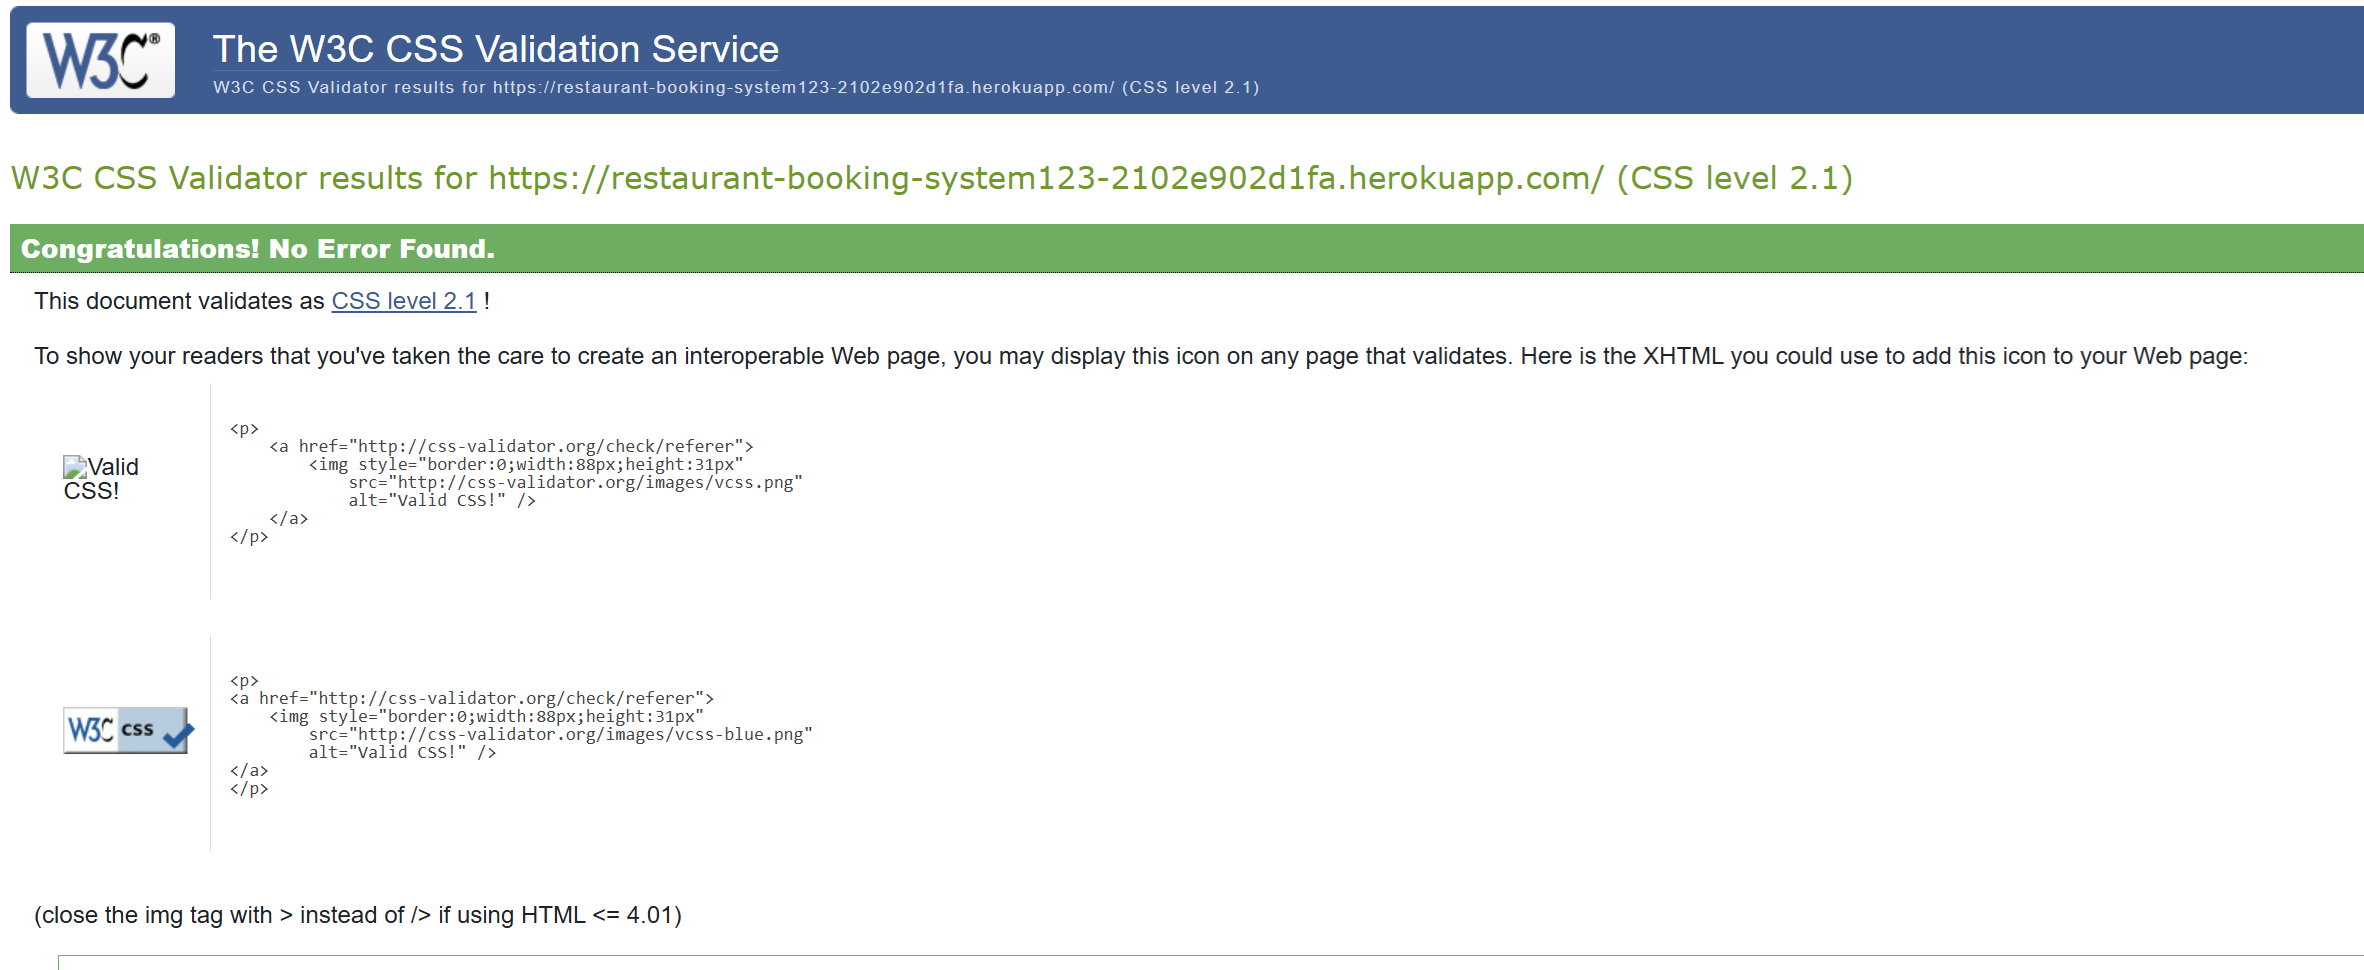
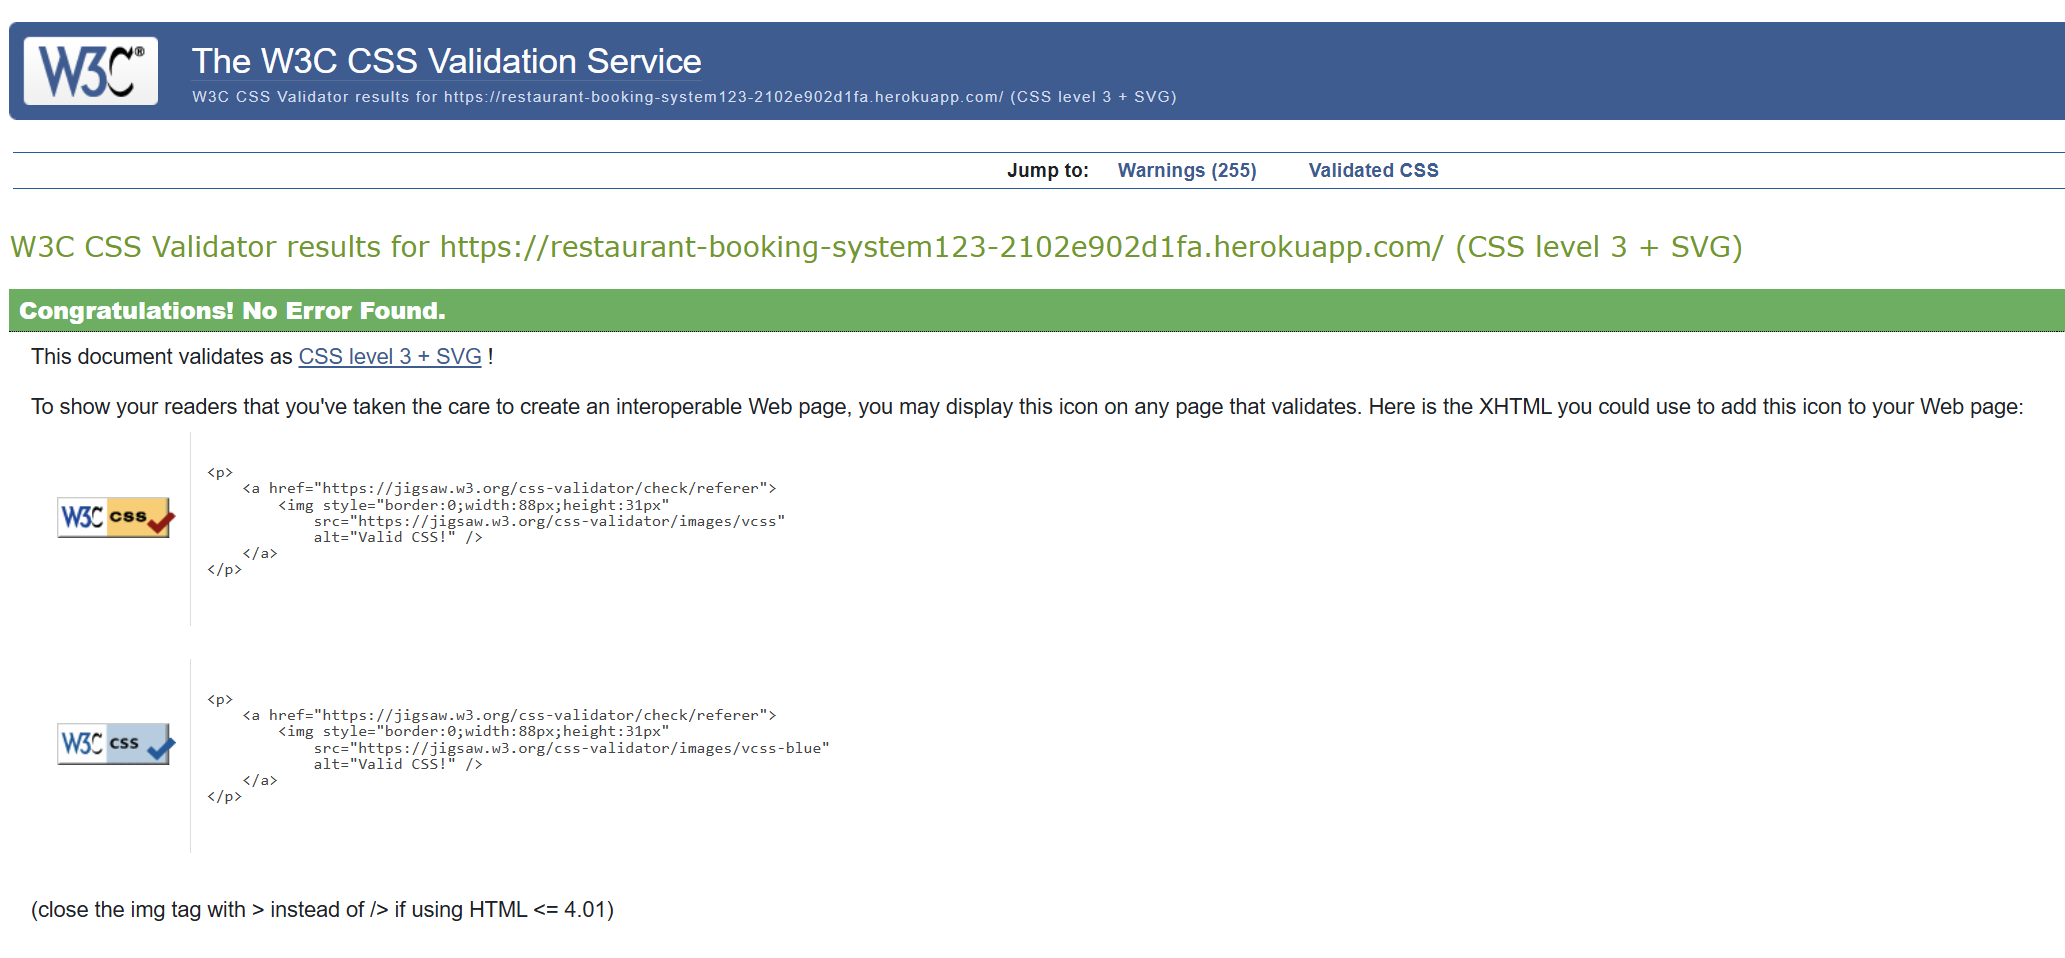
reverted to last working commit before since after last big push with pep8 cleaning broke the app. updated validation images for css + html and README

Changed region(s): [[0.0, 0.0, 1.0, 0.6054], [0.031, 0.6962, 0.4029, 0.8476], [0.0, 0.9384, 0.3099, 0.9687]]

diff --git a/README.md b/README.md
@@ -256,24 +256,37 @@ Key metrics include First Contentful Paint (FCP) at 1.8s and Largest Contentful 
 
 "Screenshot of Lighthouse audit results for the homepage."
 
-### Code Validation
-- **HTML Validation**: Verified using W3C HTML Validator, passing without errors. 
+## Code Validation
+This section documents the validation of HTML, CSS, and Python code to ensure adherence to W3C standards and PEP 8 guidelines, enhancing code quality and maintainability.
 
-![HTML Validation](static/img/html_validation.png) 
+- **HTML Validation**: 
+  Verified using the W3C Markup Validator ([validator.w3.org](https://validator.w3.org/)) by auditing the deployed site ([https://restaurant-booking-system123-2102e902d1fa.herokuapp.com/](https://restaurant-booking-system123-2102e902d1fa.herokuapp.com/)). The validation passed without errors, confirming well-formed HTML.
 
-"Screenshot of W3C HTML validation results."
+  - **Screenshot**: 
 
-- **CSS Validation**: Verified using W3C CSS Validator, passing without errors. 
+  ![HTML Validation](static/img/html_validation.png) 
+  
+  "Screenshot of W3C HTML validation results showing no errors."
 
-![CSS Validation](static/img/css_validation.png) 
+- **CSS Validation**: 
+  Verified using the W3C CSS Validator ([jigsaw.w3.org/css-validator/](https://jigsaw.w3.org/css-validator/)) on the deployed site. The validation passed without errors, ensuring compliant and error-free CSS styling. 
 
-"Screenshot of W3C CSS validation results."
+  - **Screenshot**: 
+  
+  ![CSS Validation](static/img/css_validation.png) 
+  
+  "Screenshot of W3C CSS validation results showing no errors."
 
-- **Python Validation**: Confirmed adherence to PEP8 standards using `flake8` or similar tools, resolving minor issues (e.g., line length, blank lines). 
+- **Python Validation**: 
+  Confirmed adherence to PEP 8 standards using `flake8`, run on all Python files (e.g., `bookings/`, `manage.py`). Minor issues, such as line length exceeding 79 characters (e.g., in the `clean_date` method's `ValidationError` message), were identified. These were resolved by adjusting long lines, including changing "cannot" to "can't" to reduce the message length. The final validation showed no issues, ensuring consistent code style.
 
-![Python Validation](static/img/python_validation.png) 
+  - **Screenshot**: 
+  
+  ![Python Validation](static/img/python_validation.png) 
+  
+  "Screenshot of Python validation results using flake8 after resolving issues."
 
-"Screenshot of Python validation results."
+*Note*: Validation was performed on March 10, 2025. Due to time constraints, some suggestions (e.g., adding alt text for accessibility) were noted for future improvements but not implemented for this submission.
 
 ### Browser and Device Testing
 - Tested on Chrome, Firefox, Edge (desktop), and Safari (mobile) using BrowserStack or local testing.
